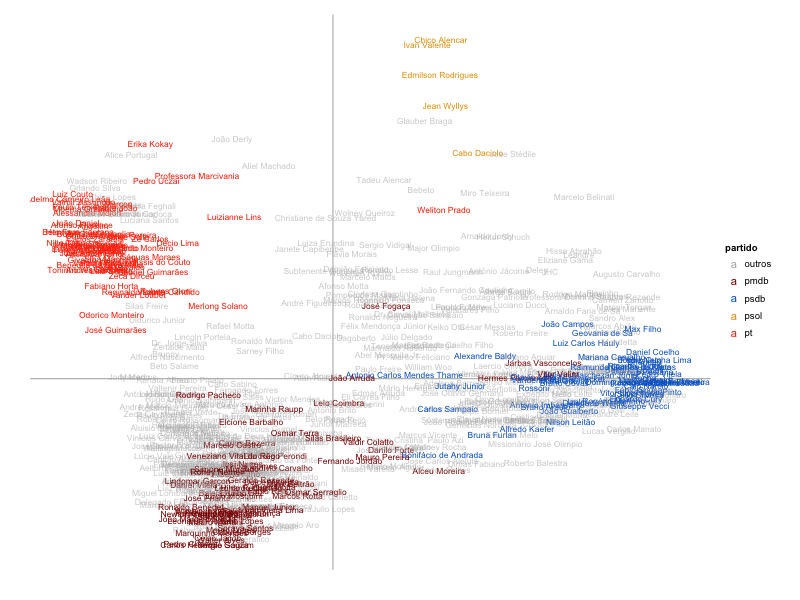
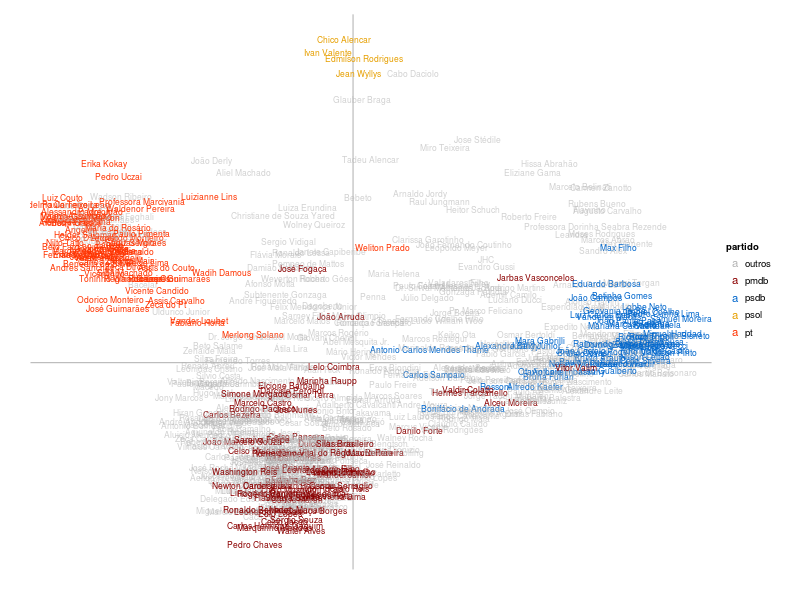
Gráfico dos partidos atualizado

diff --git a/index.html b/index.html
@@ -144,7 +144,7 @@
                 O PSDB está mais longe que o PMDB do PT, mas não tanto. O PMDB fica entre oposição e situação. </p>
             </div>
             <div class="col-md-8" id="partidos">
-                <a href="images/partidos.png">
+                <a href="images/partidos-gg.png">
                     <img class="img-responsive pull-left" src="images/partidos.png">
                 </a>
             </div>
